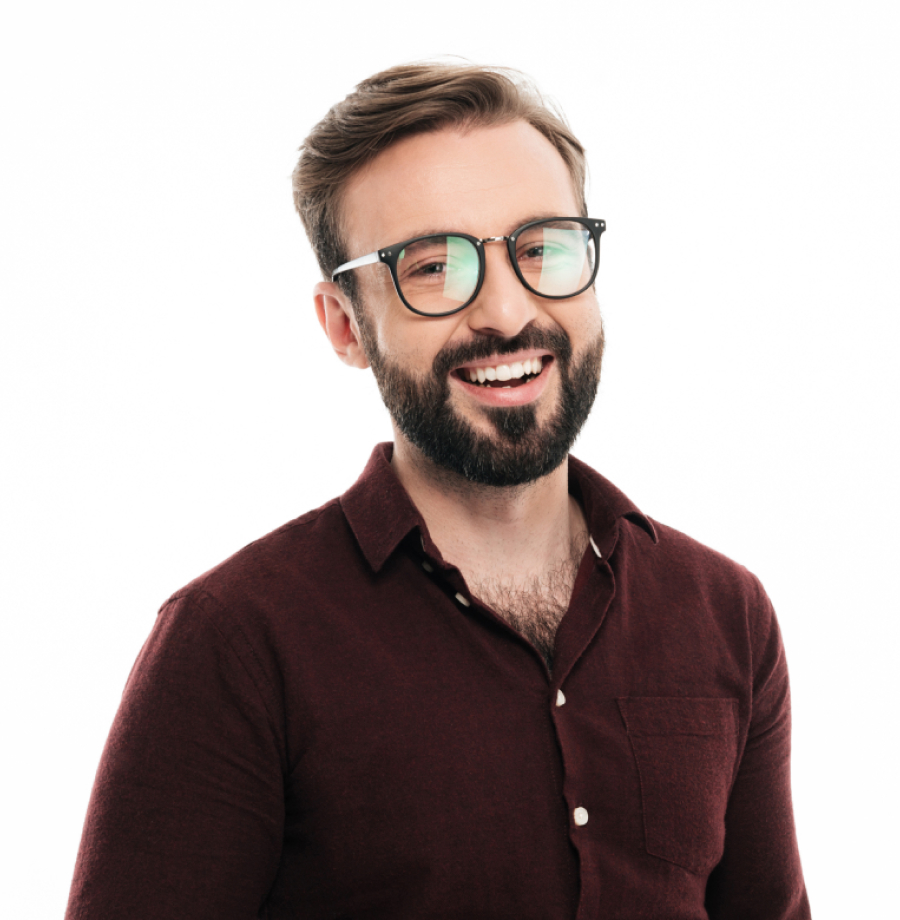
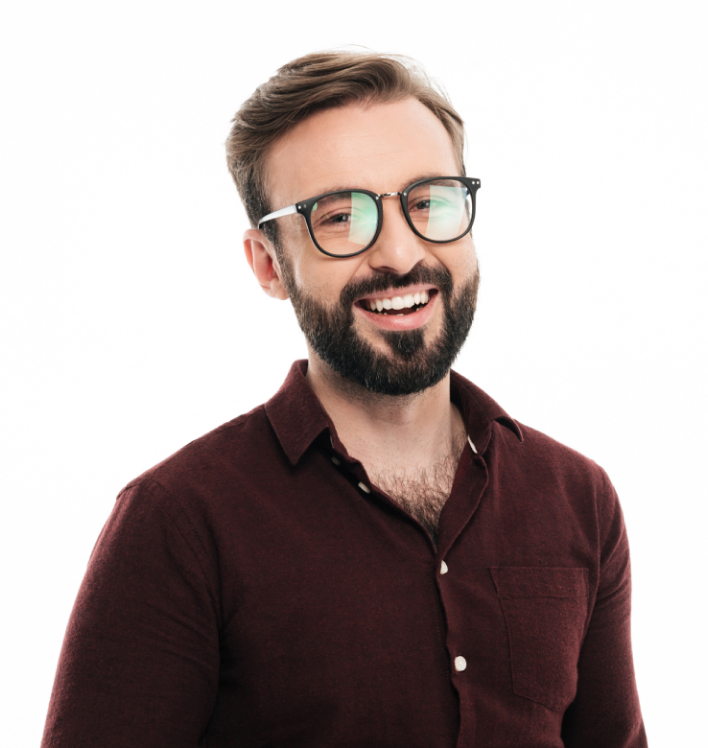
dz

diff --git a/index.html b/index.html
@@ -244,7 +244,7 @@
             <picture>
               <source srcset="./image/desktop/main/team3-1x.jpg 1x, ./image/desktop/main/team3-2x.jpg 2x"
                 media="(min-width: 1200px)">
-              <source srcset="./image/tablet/main/team3-1x.jpg 1x, ./image/tablet/main/team4-2x.jpg 2x"
+              <source srcset="./image/tablet/main/team3-1x.jpg 1x, ./image/tablet/main/team3-2x.jpg 2x"
                 media="(min-width: 768px)">
               <source srcset="./image/mobile/main/team3-1x.jpg 1x, ./image/mobile/main/team3-2x.jpg 2x"
                 media="(max-width: 767px)">
